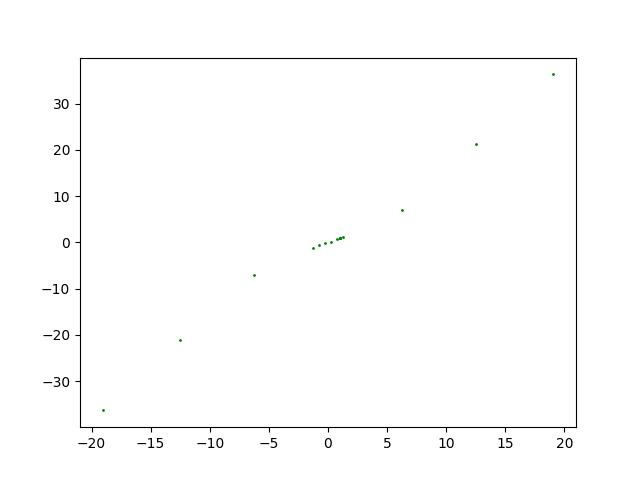
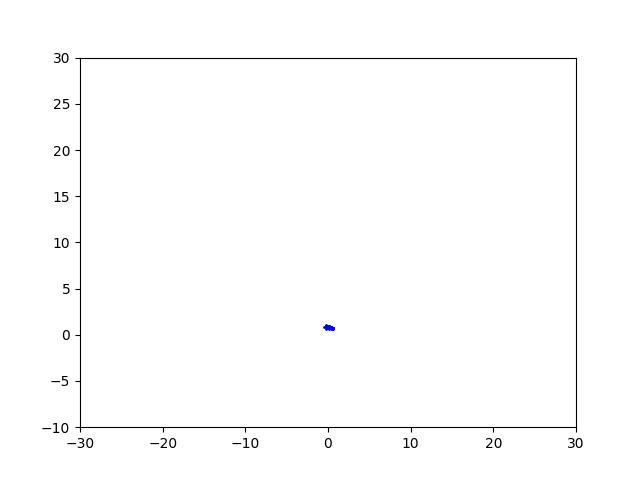
Improvement on LT NLT

diff --git a/usivaraman_P2/Phase1/Wrapper.py b/usivaraman_P2/Phase1/Wrapper.py
@@ -34,8 +34,46 @@ def DrawCameras(R, C,plt,ax,label):
     angle = Rotation.from_matrix(R).as_euler("XYZ")
     angle = np.rad2deg(angle)
     plt.plot(C[0],C[2],marker=(3, 0, int(angle[1])),markersize=15,linestyle='None') 
-   
-    ax.annotate(label,xy=(C[0]))
+    corr = -0.1
+    ax.annotate(label,xy=(C[0]+corr,C[2]+corr))
+
+
+def projectionMatrix(R,C,K):
+    C = np.reshape(C,(3,1))
+    I = np.identity(3)
+    P = np.dot(K,np.dot(R,np.hstack((I,-C))))
+    return P
+
+def ReProjectionError(X,pt1, pt2, R1, C1, R2, C2, K):
+    p1 = projectionMatrix(R1, C1, K)
+    p2 = projectionMatrix(R2, C2, K)
+
+    # print("This i s p1",p1,p1.shape)
+    # print("This i s p2",p2,p2.shape)
+    p1_1T, p1_2T, p1_3T = p1
+    # print(p1_1T.shape, p1_2T.shape, p1_3T.shape )
+    p1_1T, p1_2T, p1_3T = p1_1T.reshape(1,4), p1_2T.reshape(1,4), p1_3T.reshape(1,4)
+
+    p2_1T, p2_2T, p2_3T = p2
+    p2_1T, p2_2T, p2_3T = p2_1T.reshape(1,4), p2_2T.reshape(1,4), p2_3T.reshape(1,4)
+
+    X = X.reshape(4,1)
+
+    "Reprojection error w.r.t 1st Ref camera points"
+    u1, v1 = pt1[0], pt1[1]
+    # print(u1,v1)
+    # print(p1_1T.shape,(p1_3T.shape),X.shape)
+    u1_projection = np.divide(p1_1T.dot(X), p1_3T.dot(X))
+    v1_projection = np.divide(p1_2T.dot(X), p1_3T.dot(X))
+    err1 = np.square(v1 - v1_projection) + np.square(u1 - u1_projection)
+
+    "Reprojection error w.r.t 2nd Ref camera points"
+    u2, v2 = pt2[0], pt2[1]
+    u2_projection = np.divide(p2_1T.dot(X), p2_3T.dot(X))
+    v2_projection = np.divide(p2_2T.dot(X), p2_3T.dot(X))
+    err2 = np.square(v2 - v2_projection) + np.square(u2 - u2_projection)
+
+    return err1, err2
 
 #Reading the set of matches for the five images given and extracting features
 def features_from_matches():
@@ -127,7 +165,7 @@ def main():
             idx = np.array(idx).reshape(-1)
             
             if len(idx) > 8:
-                F_inliers, inliers_idx = GetInliersRANSAC(pts1,pts2,2000,0.003,idx)                
+                F_inliers, inliers_idx = GetInliersRANSAC(pts1,pts2,2000,0.002,idx)                
                 f_matrix[i,j] = F_inliers
                 filtered_feature_flag[inliers_idx,j] = 1
                 filtered_feature_flag[inliers_idx,i] = 1
@@ -165,6 +203,7 @@ def main():
     # X = X/X[3]
     X = np.array(X)
 
+    print("X.shape :",X.shape)
 
     plt.figure("camera disambiguation")
     # plt.set(xlim=(-30, 30), ylim=(-30,30))
@@ -173,22 +212,22 @@ def main():
     colors = ['red','brown','greenyellow','teal']
     for color, X_c in zip(colors, X):
         plt.scatter(X_c[:,0],X_c[:,2],color=color,marker='.')
-    plt.savefig("/home/uthira/RBE549_SFM_NERF-main/usivaraman_P2/Phase1/Data/IntermediateOutputImages/DisambiguateCameraPose.jpg")
+    plt.savefig("/home/uthira/Documents/GitHub/SFM_NERF_WORKING/usivaraman_P2/Phase1/Data/IntermediateOutputImages/DisambiguateCameraPose.jpg")
    
     plt.show()
     plt.close()
 
-    # # Given World point X and Camera Poses, Disambiguating 
-    # Rpose,Cpose,Xpose =DisambiguateCameraPose(RSet,CSet,X)
-    # Xpose = Xpose/Xpose[3]
-    # # Xpose = Xpose[0:3]
-    # Xpose = np.array(Xpose)
+    # Given World point X and Camera Poses, Disambiguating 
+    Rpose,Cpose,Xpose =DisambiguatePose(RSet,CSet,X)
+    Xpose = Xpose/Xpose[:,3].reshape(-1,1)
    
-    # fig = plt.figure()
-    # ax = fig.add_subplot()
-    # plt.scatter(X[:,0], X[:,2],c="g",s=1,label="Linear Triangulation")
-    # plt.savefig("/home/uthira/Documents/GitHub/RBE549_SFM_NERF/usivaraman_P2/Phase1/Data/IntermediateOutputImages/Linear_Triangulation.jpg")
-
+    fig = plt.figure("LT, NLT")
+    ax = fig.add_subplot()
+    plt.xlim([-30, 30])
+    plt.ylim([-10, 30])
+    plt.scatter(Xpose[:,0], Xpose[:,2],c="b",s=1,label="Linear Triangulation")
+    # plt.savefig("/home/uthira/Documents/GitHub/SFM_NERF_WORKING/usivaraman_P2/Phase1/Data/IntermediateOutputImages/Linear_Triangulation.jpg")
+    
     # plt.show()
     # plt.close()
 
@@ -202,21 +241,44 @@ def main():
 
 
     # # Given World Point X and Camera Poses, We refine the world Point using geometric error using Non Linear Triangulation 
-    # X_optimized = NonlinearTriangulation(K,R1_,C1_,Rpose,Cpose,pts1, pts2, Xpose)
-    # fig = plt.figure()
-    # ax = fig.add_subplot()
-    # plt.scatter(X_optimized[:,0], X_optimized[:,2],c="r",s=1,label="NonLinear_Triangulation")
-    # plt.savefig("/home/uthira/Documents/GitHub/RBE549_SFM_NERF/usivaraman_P2/Phase1/Data/IntermediateOutputImages/NonLinear_Triangulation.jpg")
+    # X_optimized = NonLinearTriangulation(K,pts1, pts2, Xpose,R1_,C1_,Rpose,Cpose)
+    X_optimized = NonlinearTriangulation(K,R1_,C1_,Rpose,Cpose,pts1, pts2, Xpose)
+    print(X_optimized.shape)
+    # X_optimized = X_optimized / X_optimized[:,3].reshape(-1,1)
+    # # # #
+    # plt.figure("NlT")
+    # plt.xlim([-30, 30])
+    # plt.ylim([-10, 30])
+    plt.scatter(X_optimized[:,0], X_optimized[:,2],c="r",s=1,label="NonLinear_Triangulation")
+    # plt.savefig("/home/uthira/Documents/GitHub/SFM_NERF_WORKING/usivaraman_P2/Phase1/Data/IntermediateOutputImages/NonLinear_Triangulation.jpg")
 
     # plt.show()
     # plt.close()
 
    
-    # DrawCameras(R1_,C1_,plt,ax,"1") #Draw 1st camera 
-    # DrawCameras(Rpose,Cpose,plt,ax,"2")  # Draw 2nd camera
+    DrawCameras(R1_,C1_,plt,ax,"1") #Draw 1st camera 
+    DrawCameras(Rpose,Cpose,plt,ax,"2")  # Draw 2nd camera
+    # plt.xlim([-20, 20])
+    # plt.ylim([-15, 15])
+    plt.legend()
+    plt.show()
 
-    # plt.legend()
-    # plt.show()
+
+    total_err1 = []
+    for pt1, pt2, X_3d in zip(pts1,pts2,Xpose):
+        err1, err2 = ReProjectionError(X_3d,pt1,pt2,R1_,C1_,Rpose,Cpose,K)
+        total_err1.append(err1+err2)
+    
+    mean_err1 = np.mean(total_err1)
+
+    total_err2 = []
+    for pt1, pt2, X_3d in zip(pts1,pts2,X_optimized):
+        err1, err2 = ReProjectionError(X_3d,pt1,pt2,R1_,C1_,Rpose,Cpose,K)
+        total_err2.append(err1+err2)
+    
+    mean_err2 = np.mean(total_err2)
+
+    print("Between images",0+1,1+1,"Before optimization Linear Triang: ", mean_err1, "After optimization Non-Linear Triang: ", mean_err2)
     
 
 

diff --git a/usivaraman_P2/Phase1/DisambiguateCameraPose.py b/usivaraman_P2/Phase1/DisambiguateCameraPose.py
@@ -20,38 +20,42 @@ import matplotlib.pyplot as plt
 
 # From 4 possible camera poses, we find the pose in which the world points lie in front of both the cameras
 
-def DisambiguateCameraPose(RSet,CSet,XValues):
-
-    best_index = 0
+def DisambiguatePose(r_set, c_set, x3D_set):
+    """
+    https://www.cis.upenn.edu/~cis580/Spring2015/Projects/proj2/proj2.pdf
+    To get correct unique camera Pose we need to remove the disambiguity using Cheirality condition.
+    The reconstructed points must be in front of cameras.
+    """
+    best_i = 0
     max_positive_depths = 0
-    for i in range(len(RSet)):
-        R, C= RSet[i], CSet[i]
-        # print("R :",R) 
-        # print("R  shape:",R.shape)
-        # print("C :",C)
-        # print("C  shape:",C.shape)
-        
 
-        C = np.transpose(C).reshape(-1,1)
-        print(C)
-        r3 = R[2].reshape(1,-1)
-        counter = 0
-        for X in XValues[i]:
+    for i in range(len(r_set)):
+        R, C = r_set[i], c_set[i]
+        r3 = R[2, :].reshape(1,-1) #3rd column of R
+        x3D = x3D_set[i]
+        x3D = x3D / x3D[:,3].reshape(-1,1)
+        x3D = x3D[:, 0:3]
 
-            print(X)
+        #Here we count MAximum Positive Depths
+        n_positive_depths = DepthPositivityConstraint(x3D, r3,C)
+        # print(n_positive_depths)
+        if n_positive_depths > max_positive_depths:
+            best_i = i
+            max_positive_depths = n_positive_depths
 
-            X = X/X[3]       
-            X = X[0:3]
-            X =X.reshape(-1,1)
+    R, C, x3D = r_set[best_i], c_set[best_i], x3D_set[best_i]
 
-            if r3.dot(X-C).T>0 and X[2]>0:
-                counter+=1 
+    return R, C, x3D 
 
-        if(counter>max_positive_depths):
-
-            max_positive_depths = counter
-            best_index = i
-    return RSet[best_index],CSet[best_index],XValues[best_index]
+def DepthPositivityConstraint(x3D, r3, C):
+    # r3(X-C) alone doesnt solve the check positivity. z = X[2] must also be +ve 
+    n_positive_depths=  0
+    for X in x3D:
+        X = X.reshape(-1,1) 
+        C = C.reshape(-1,1)
+        if r3.dot(X-C).T>0 and X[2]>0: 
+            n_positive_depths+=1
+    return n_positive_depths
         
 
          

diff --git a/usivaraman_P2/Phase1/ExtractCameraPose.py b/usivaraman_P2/Phase1/ExtractCameraPose.py
@@ -48,7 +48,8 @@ def ExtractCameraPose(E):
     # print(" C2, R2 :", C2,R2)
     # print(" C3, R3 :", C3,R3)
     # print(" C4, R4 :", C4,R4)
-
+    C =[]
+    R =[]
     Camera_Poses = [[C1,R1],[C2,R2],[C3,R3],[C4,R4]]
 
     for i,cameraPose in enumerate(Camera_Poses):
@@ -61,13 +62,17 @@ def ExtractCameraPose(E):
             cameraPose[1] = -cameraPose[1]
             Camera_Poses[i] = cameraPose
 
+        C.append(cameraPose[0])
+        R.append(cameraPose[1])
+
+
     # print(" C1, R1 :", C1,R1)
     # print(" C2, R2 :", C2,R2)
     # print(" C3, R3 :", C3,R3)
     # print(" C4, R4 :", C4,R4)
 
-    C = [C1,C2,C3,C4]
-    R = [R1,R2,R3,R4]
+    # C = [C1,C2,C3,C4]
+    # R = [R1,R2,R3,R4]
 
     return C,R
 

diff --git a/usivaraman_P2/Phase1/NonlinearTriangulation.py b/usivaraman_P2/Phase1/NonlinearTriangulation.py
@@ -21,7 +21,6 @@ import scipy.optimize as optimize
 
 # After we got two camera poses and World Points X found based on linear triangulation and cheriality condition, 
 #we compute the geometric error between the given point and reprojected point and minimize the error using optimization function from scipy.
-
 def NonlinearTriangulation(K,R1,C1,R2,C2,x1, x2, X):
 
 
